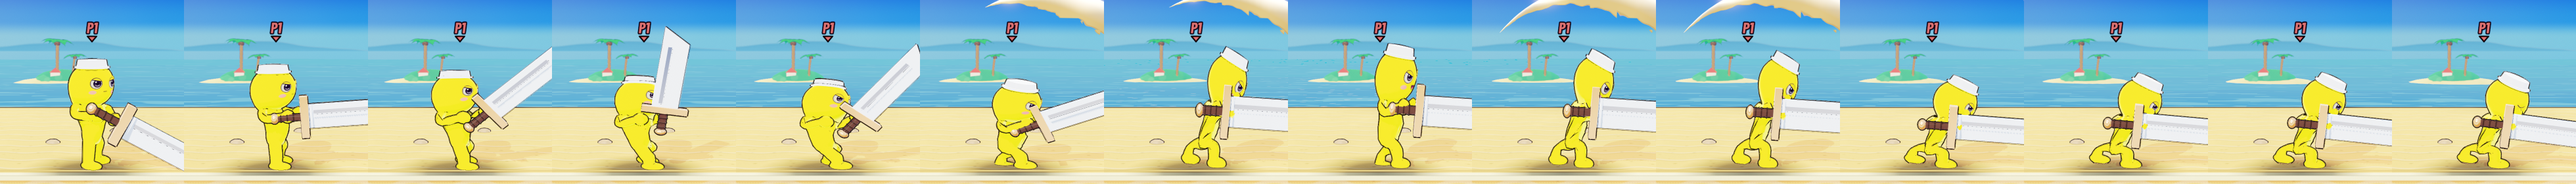
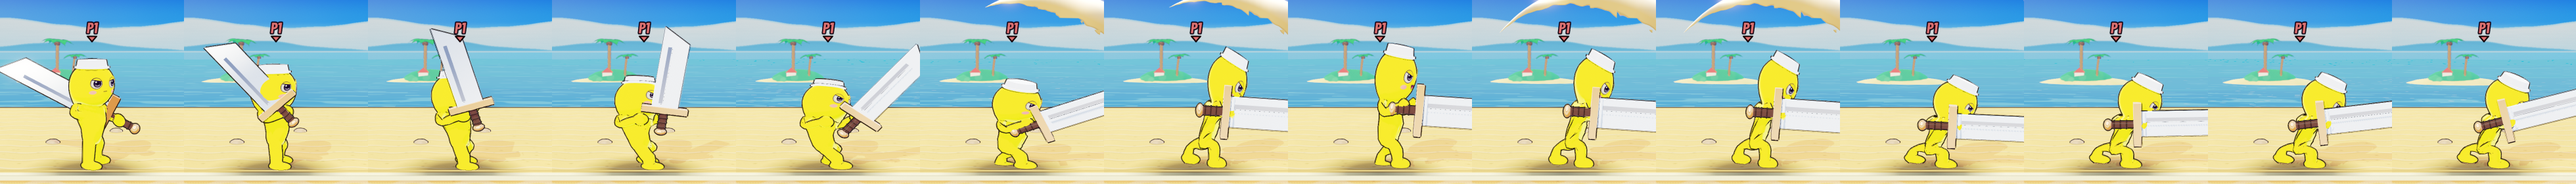
The Champion carries the greatsword over the shoulder, behind the back, swinging it round in front only to strike

diff --git a/docs/ART_PIPELINE.md b/docs/ART_PIPELINE.md
@@ -989,3 +989,7 @@ stage its own identity). `docs/screenshots/meadow_day_sky_islands.png`, `meadow_
   time left, and reads "BOOST!". The match reads it from the bridge's `fighter_gauge`, `fighter_gauge_max`, `fighter_gauge_full` and
   `fighter_gauge_frames` when they exist (`main.gd`, "gauges"), and draws nothing for a fighter without one. `hud_boost_meter.png`
   (left: filling; right: powered).
+- **The Champion carries the greatsword over the shoulder** (the owner: keep the big blade out of the view): at rest and through its
+  kicks and stance the hand is up by the shoulder (`GREAT_REST_HAND`) and the blade lies back across the back (`GREAT_REST_ANGLE` 152,
+  behind the body: `great_z` eases the hand behind and in front); a swing brings it up off the shoulder and round in front.
+  `champion_shoulder_carry.png`. (The longsword keeps its raised guard: it is small enough not to block the view.)
